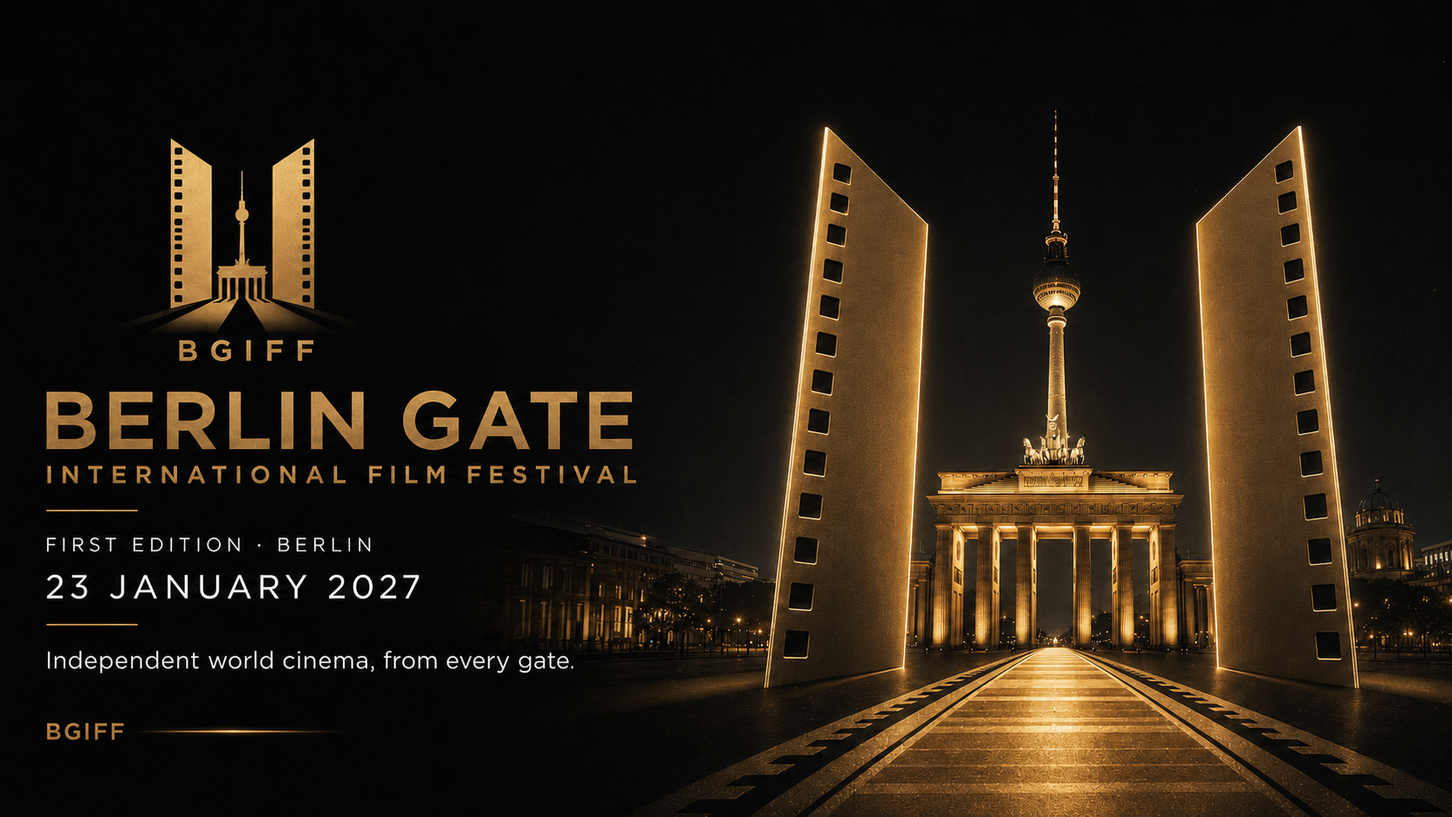
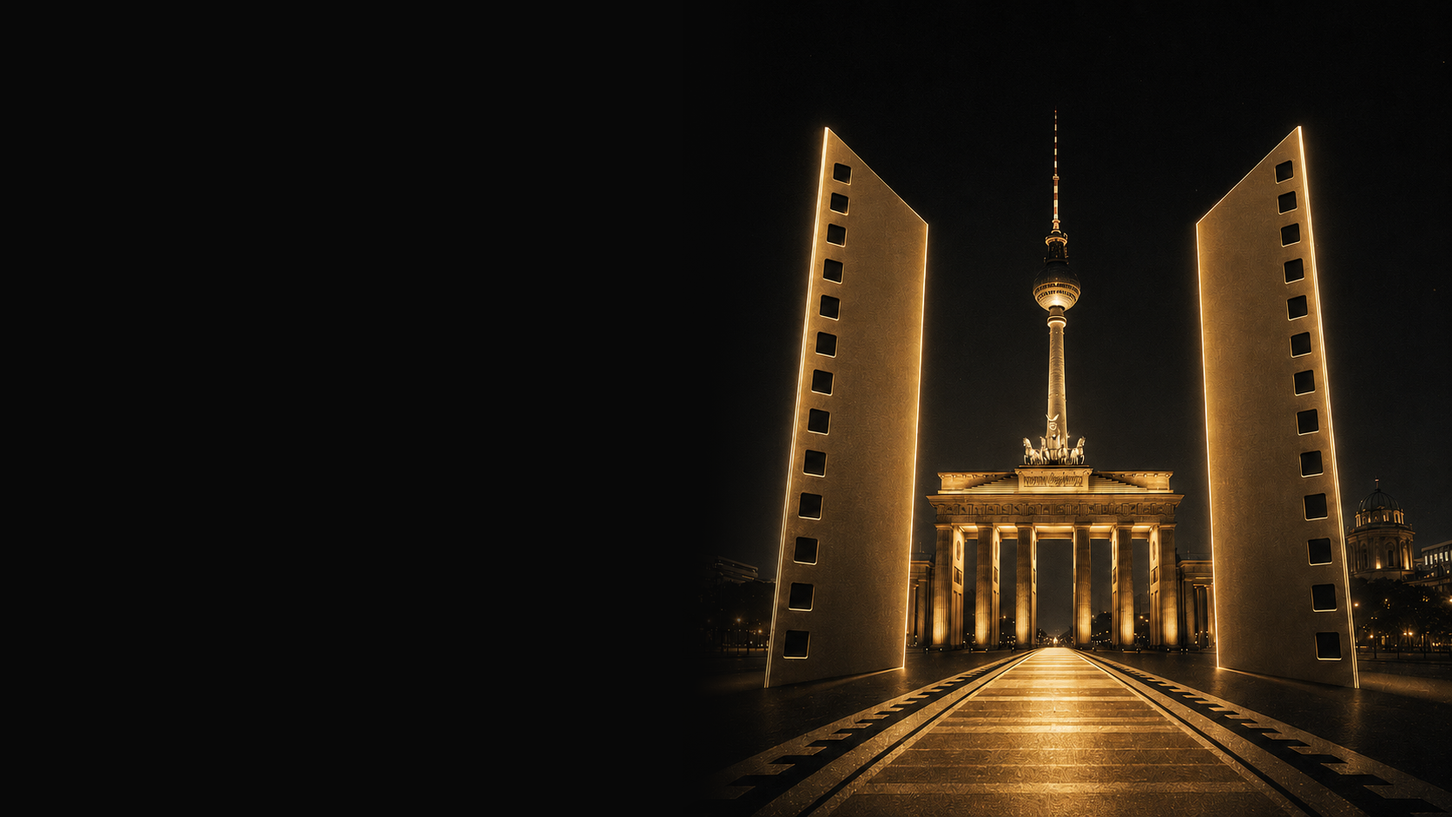
Live site: current dates, clean hero, real contact addresses, Impressum structure
Only the three urgent fixes (founder, 8 Oct): dates, Impressum, contact email.
- Dates: film deadline 1 Nov, scripts & photos 21 Nov, the Reveal 24 Nov, Official Selection 21 Dec, The Gates Open 23 Jan 2027. Removed the passed 5 Oct deadline and every 'Berlin 24 January 2027' (Berlin dates are announced at the Reveal).
- Hero image replaced by the clean version (the old one had '23 January 2027 · Berlin' baked in); the old timeline image (30 Nov deadline, Berlin 23 Jan) is no longer used.
- Contact: hello@ and press@ do not exist, now info@; removed the contact form that sent nothing.
- Impressum: § 5 DDG / § 18 (2) MStV structure, data in lib/data.ts. Values in [brackets] wait for the operator's data; do not publish before they are filled.

Claude-Session: https://claude.ai/code/session_01QrGrghJHUKYvL9S9jM93cw

diff --git a/app/globals.css b/app/globals.css
@@ -1,6 +1,6 @@
 @import url('https://fonts.googleapis.com/css2?family=Cormorant+Garamond:ital,wght@0,500;1,500&family=Montserrat:wght@300;400;500;600;700&display=swap');
 :root{--black:#080808;--charcoal:#151515;--gold:#c99a43;--champagne:#e2be70;--ivory:#f3f0e9;--grey:#a6a6a6;--line:rgba(201,154,67,.24)}
-*{box-sizing:border-box}html{scroll-behavior:smooth}body{margin:0;background:var(--black);color:var(--ivory);font-family:Montserrat,Arial,sans-serif;font-weight:400;line-height:1.65}a{color:inherit;text-decoration:none}img{object-fit:cover}main{overflow:hidden}.site-header{height:82px;position:fixed;inset:0 0 auto;z-index:50;display:flex;align-items:center;justify-content:space-between;padding:0 4vw;border-bottom:1px solid rgba(255,255,255,.08);background:linear-gradient(#080808d9,transparent);backdrop-filter:blur(8px)}.brand{display:flex;align-items:center;gap:12px;font-size:12px;font-weight:600;letter-spacing:.24em}.brand img{border-radius:50%}.site-header nav{display:flex;align-items:center;gap:2.1vw}.site-header nav>a:not(.button){font-size:11px;text-transform:uppercase;letter-spacing:.14em;color:#dedbd4;transition:.2s}.site-header nav>a:not(.button):hover{color:var(--gold)}.menu-toggle{display:none;color:white;background:none;border:0;font-size:25px}.button{display:inline-flex;justify-content:center;align-items:center;min-height:50px;padding:0 26px;background:var(--gold);color:#080808;font-weight:700;text-transform:uppercase;letter-spacing:.12em;font-size:10px;border:1px solid var(--gold);cursor:pointer;transition:.25s}.button:hover{background:var(--champagne);border-color:var(--champagne);transform:translateY(-2px)}.button-small{min-height:42px;padding:0 18px}.button.outline{background:transparent;color:var(--ivory);border-color:var(--gold)}.text-link{text-transform:uppercase;letter-spacing:.15em;font-size:10px;font-weight:600;border-bottom:1px solid var(--gold);padding-bottom:5px}.text-link b{color:var(--gold);margin-left:7px}.hero{position:relative;height:max(760px,100vh);min-height:700px}.hero-image{object-position:center}.hero-shade{position:absolute;inset:0;background:linear-gradient(90deg,rgba(8,8,8,.96) 0%,rgba(8,8,8,.76) 37%,rgba(8,8,8,.1) 68%),linear-gradient(0deg,rgba(8,8,8,.5),transparent 42%)}.hero-content{position:absolute;left:8vw;top:52%;transform:translateY(-46%);max-width:700px}.eyebrow,.page-hero span,.article-page header>span,.film-page>div>span{color:var(--gold);font-size:10px;letter-spacing:.27em;text-transform:uppercase;font-weight:600;margin-bottom:24px}.hero h1{font-size:clamp(54px,6.7vw,112px);line-height:.9;letter-spacing:-.055em;text-transform:uppercase;margin:0 0 28px}.hero h1 span{font-family:"Cormorant Garamond",serif;font-weight:500;font-style:italic;text-transform:none;color:var(--champagne)}.hero-content>p{font-size:17px;color:#ddd;letter-spacing:.04em}.actions{display:flex;align-items:center;gap:18px;margin-top:34px;flex-wrap:wrap}.hero-date{position:absolute;left:calc(100% + 7vw);bottom:-16vh;display:flex;align-items:center;gap:14px;color:var(--gold);white-space:nowrap}.hero-date b{font-size:54px;font-weight:300;line-height:1}.hero-date span{font-size:10px;letter-spacing:.18em;line-height:1.5}.scroll-cue{position:absolute;bottom:32px;left:50%;transform:translateX(-50%);font-size:8px;letter-spacing:.25em;color:#bbb;display:flex;align-items:center;gap:12px}.scroll-cue i{display:block;width:54px;height:1px;background:var(--gold)}.section{padding:130px 7vw;background:var(--ivory);color:var(--black)}.section.dark-section,.timeline-section{background:var(--charcoal);color:var(--ivory)}.section-inner{max-width:1380px;margin:auto}.section h2,.closing h2,.page-hero h1,.article-page h1{font-size:clamp(42px,5.5vw,84px);line-height:1.02;letter-spacing:-.05em;margin:0 0 70px;max-width:1000px}.split{display:grid;grid-template-columns:1.1fr .9fr;gap:11vw;align-items:start}.lead{font-family:"Cormorant Garamond",serif;font-size:clamp(27px,3vw,45px);line-height:1.18;margin:0}.split>div>p{color:#56524c;margin-top:0}.dark-section .split>div>p{color:#bbb}.category-grid{display:grid;grid-template-columns:repeat(4,1fr);border-top:1px solid var(--line);border-left:1px solid var(--line)}.category{min-height:245px;padding:30px;border-right:1px solid var(--line);border-bottom:1px solid var(--line);position:relative;transition:.3s}.category:hover{background:var(--gold);color:var(--black)}.category>span,.path-item span,.values span,.programme-grid span,.recognition span,.award-list span{color:var(--gold);font-size:9px;letter-spacing:.2em}.category:hover>span{color:#222}.category h3{font-size:22px;margin:45px 0 10px}.category p{color:#9c9a95;font-size:12px;margin:0}.category:hover p{color:#332b1d}.category>b{position:absolute;right:26px;top:25px}.path-list{border-top:1px solid #bbb}.path-item{padding:19px 5px;border-bottom:1px solid #ccc;text-transform:uppercase;letter-spacing:.08em;font-size:14px}.path-item span{display:inline-block;width:65px}.timeline{display:grid;grid-template-columns:repeat(5,1fr);margin:70px 0}.milestone{position:relative;border-top:1px solid var(--line);padding:28px 20px 0}.milestone i{position:absolute;top:-5px;left:20px;width:9px;height:9px;background:var(--gold);border-radius:50%}.milestone>span{color:#555;font-size:9px}.milestone h3{font-size:13px;text-transform:uppercase;letter-spacing:.08em;margin:20px 0 8px}.milestone p{color:var(--gold);font-size:11px}.wide-image{position:relative;aspect-ratio:16/7;margin-top:60px;overflow:hidden}.prize-section{background:#0c0c0c;color:var(--ivory)}.prize-grid{display:grid;grid-template-columns:.78fr 1fr;gap:9vw;align-items:center}.trophy{position:relative;min-height:700px}.trophy img{object-position:center}.prize-copy ul{list-style:none;padding:0;margin:45px 0}.prize-copy li{border-top:1px solid var(--line);padding:14px 0;text-transform:uppercase;letter-spacing:.09em;font-size:11px}.event-facts{display:grid;grid-template-columns:repeat(3,1fr);border-top:1px solid var(--line);max-width:850px;margin-bottom:55px}.event-facts>div{padding:30px 0;border-right:1px solid var(--line);display:flex;gap:18px}.event-facts b{color:var(--gold);font-size:10px}.event-facts span{text-transform:uppercase;letter-spacing:.08em;font-size:13px}.article-grid{display:grid;grid-template-columns:repeat(3,1fr);gap:28px;margin-bottom:60px}.article-image{height:300px;position:relative;overflow:hidden;margin-bottom:23px}.article-card:hover .article-image img{transform:scale(1.03)}.article-image img{transition:.5s}.article-card>span{font-size:8px;color:var(--gold);text-transform:uppercase;letter-spacing:.16em}.article-card h3{font-size:22px;line-height:1.25;margin:13px 0}.article-card p{color:#96928b;font-size:12px}.closing{text-align:center;padding:150px 20px;background:radial-gradient(circle at 50% 60%,#3b2a11 0,transparent 35%),#080808}.closing-mark{color:var(--gold);letter-spacing:.7em;font-size:12px;margin-bottom:35px}.closing h2{margin:0 auto 25px;text-transform:uppercase}.closing p{color:#aaa;margin-bottom:35px}.closing .actions{justify-content:center}footer{display:grid;grid-template-columns:2fr repeat(4,1fr);gap:35px;padding:80px 7vw 30px;border-top:1px solid #292929;background:#080808;color:#aaa;font-size:11px}footer h4{color:var(--gold);text-transform:uppercase;letter-spacing:.16em;font-size:9px;margin-bottom:18px}footer a{display:block;margin:8px 0}.footer-brand .mark{font-size:26px;color:var(--gold);letter-spacing:.2em}.footer-festhome img{width:132px;height:auto;object-fit:contain;margin-top:10px}.footer-bottom{grid-column:1/-1;border-top:1px solid #222;padding-top:24px;margin-top:30px;font-size:9px}.page-hero{height:72vh;min-height:600px;display:flex;align-items:flex-end;padding:0 7vw 9vh;position:relative;background:linear-gradient(90deg,#080808 10%,transparent),url('/images/hero-web.png') center/cover}.page-hero:after{content:"";position:absolute;inset:0;background:linear-gradient(0deg,#080808 0,transparent 70%)}.page-hero>div{position:relative;z-index:1;max-width:1050px}.page-hero h1{margin-bottom:0}.page-hero p{max-width:620px;color:#ccc}.submit-hero{background-image:linear-gradient(90deg,#080808 5%,transparent),url('/images/timeline.png')}.awards-hero{background-image:linear-gradient(90deg,#080808 5%,transparent),url('/images/laurels.png')}.journal-hero{background-image:linear-gradient(90deg,#080808 5%,transparent),url('/images/hero-web.png')}.feature-image{height:76vh;position:relative}.values{display:grid;grid-template-columns:repeat(3,1fr);border-left:1px solid var(--line);border-top:1px solid var(--line)}.values>div{min-height:160px;border-right:1px solid var(--line);border-bottom:1px solid var(--line);padding:30px}.values h3{margin-top:30px}.narrow{max-width:800px;margin-bottom:45px}.date-list{border-top:1px solid var(--line)}.date-list>div{display:flex;justify-content:space-between;align-items:center;padding:20px 0;border-bottom:1px solid var(--line)}.date-list h3{font-size:14px;text-transform:uppercase;letter-spacing:.08em}.date-list b{font-weight:400;color:var(--gold);letter-spacing:.1em}.submission-actions{display:flex;gap:14px;flex-wrap:wrap;margin-top:30px}.platform-grid{display:grid;grid-template-columns:1fr 1fr;gap:1px;background:#d0cdc5}.platform-grid>div{background:var(--ivory);padding:38px;min-height:250px}.platform-grid h3{font-size:26px;margin-top:0}.platform-grid p{color:#666;max-width:520px;margin-bottom:28px}.festhome-badge{display:inline-block}.festhome-badge img{display:block;width:190px;height:auto;object-fit:contain}.steps{display:grid;grid-template-columns:repeat(5,1fr);gap:1px;background:#d0cdc5}.steps>div{background:var(--ivory);padding:30px;min-height:170px}.steps b{color:var(--gold)}.faq details{border-top:1px solid #c9c5bc;padding:20px 0}.faq summary{font-size:17px;font-weight:600;cursor:pointer}.faq details p{color:#666;max-width:700px}.legal-note{font-size:11px;color:#888;margin-top:45px}.recognition{display:grid;grid-template-columns:repeat(3,1fr);gap:25px}.recognition>div{border:1px solid var(--line);padding:35px;min-height:220px}.recognition h3{margin-top:35px}.laurels{aspect-ratio:16/8}.award-list{display:grid;grid-template-columns:1fr 1fr;border-top:1px solid #ccc}.award-list>div{padding:17px;border-bottom:1px solid #ccc;text-transform:uppercase;font-size:12px}.award-list span{display:inline-block;width:48px}.programme-grid{display:grid;grid-template-columns:repeat(3,1fr);gap:1px;background:#ccc}.programme-grid>div{background:var(--ivory);padding:35px;min-height:230px}.programme-grid h3{margin-top:45px}.contact-grid{display:grid;grid-template-columns:1fr 1fr;gap:1px;background:#ccc}.contact-grid>div{background:var(--ivory);padding:30px}.contact-grid a{color:#75551f}.contact-form{margin-top:80px;display:grid;grid-template-columns:1fr 1fr;gap:25px}.contact-form label{font-size:10px;text-transform:uppercase;letter-spacing:.12em}.contact-form input,.contact-form textarea,.contact-form select{display:block;width:100%;border:0;border-bottom:1px solid #aaa;background:transparent;padding:14px 0;font:inherit;margin-top:5px}.contact-form label:nth-child(4){grid-column:1/-1}.contact-form p{font-size:10px;color:#777}.article-page{padding-top:170px}.article-page header,.article-body{max-width:900px;margin:0 auto;padding:0 30px}.article-page header p{font-size:18px;color:#aaa}.article-cover{height:65vh;position:relative;margin:70px 0}.article-body{padding-bottom:120px}.article-body p:not(.lead){color:#aaa}.film-page{min-height:100vh;padding:150px 7vw 100px;display:grid;grid-template-columns:1fr 1fr;gap:8vw;align-items:center}.film-poster{position:relative;min-height:650px}.film-page h1{font-size:60px;line-height:1}.film-page dl{display:grid;grid-template-columns:120px 1fr;border-top:1px solid var(--line)}.film-page dt,.film-page dd{margin:0;padding:12px;border-bottom:1px solid var(--line)}.film-page dt{color:var(--gold);font-size:10px;text-transform:uppercase}.legal-page{max-width:850px;min-height:80vh;padding:170px 30px 100px;margin:auto}.legal-page h1{font-size:60px}.legal-page h2{margin-top:50px}.legal-page p{color:#bbb}
+*{box-sizing:border-box}html{scroll-behavior:smooth}body{margin:0;background:var(--black);color:var(--ivory);font-family:Montserrat,Arial,sans-serif;font-weight:400;line-height:1.65}a{color:inherit;text-decoration:none}img{object-fit:cover}main{overflow:hidden}.site-header{height:82px;position:fixed;inset:0 0 auto;z-index:50;display:flex;align-items:center;justify-content:space-between;padding:0 4vw;border-bottom:1px solid rgba(255,255,255,.08);background:linear-gradient(#080808d9,transparent);backdrop-filter:blur(8px)}.brand{display:flex;align-items:center;gap:12px;font-size:12px;font-weight:600;letter-spacing:.24em}.brand img{border-radius:50%}.site-header nav{display:flex;align-items:center;gap:2.1vw}.site-header nav>a:not(.button){font-size:11px;text-transform:uppercase;letter-spacing:.14em;color:#dedbd4;transition:.2s}.site-header nav>a:not(.button):hover{color:var(--gold)}.menu-toggle{display:none;color:white;background:none;border:0;font-size:25px}.button{display:inline-flex;justify-content:center;align-items:center;min-height:50px;padding:0 26px;background:var(--gold);color:#080808;font-weight:700;text-transform:uppercase;letter-spacing:.12em;font-size:10px;border:1px solid var(--gold);cursor:pointer;transition:.25s}.button:hover{background:var(--champagne);border-color:var(--champagne);transform:translateY(-2px)}.button-small{min-height:42px;padding:0 18px}.button.outline{background:transparent;color:var(--ivory);border-color:var(--gold)}.text-link{text-transform:uppercase;letter-spacing:.15em;font-size:10px;font-weight:600;border-bottom:1px solid var(--gold);padding-bottom:5px}.text-link b{color:var(--gold);margin-left:7px}.hero{position:relative;height:max(760px,100vh);min-height:700px}.hero-image{object-position:center}.hero-shade{position:absolute;inset:0;background:linear-gradient(90deg,rgba(8,8,8,.96) 0%,rgba(8,8,8,.76) 37%,rgba(8,8,8,.1) 68%),linear-gradient(0deg,rgba(8,8,8,.5),transparent 42%)}.hero-content{position:absolute;left:8vw;top:52%;transform:translateY(-46%);max-width:700px}.eyebrow,.page-hero span,.article-page header>span,.film-page>div>span{color:var(--gold);font-size:10px;letter-spacing:.27em;text-transform:uppercase;font-weight:600;margin-bottom:24px}.hero h1{font-size:clamp(54px,6.7vw,112px);line-height:.9;letter-spacing:-.055em;text-transform:uppercase;margin:0 0 28px}.hero h1 span{font-family:"Cormorant Garamond",serif;font-weight:500;font-style:italic;text-transform:none;color:var(--champagne)}.hero-content>p{font-size:17px;color:#ddd;letter-spacing:.04em}.actions{display:flex;align-items:center;gap:18px;margin-top:34px;flex-wrap:wrap}.hero-date{position:absolute;left:calc(100% + 7vw);bottom:-16vh;display:flex;align-items:center;gap:14px;color:var(--gold);white-space:nowrap}.hero-date b{font-size:54px;font-weight:300;line-height:1}.hero-date span{font-size:10px;letter-spacing:.18em;line-height:1.5}.scroll-cue{position:absolute;bottom:32px;left:50%;transform:translateX(-50%);font-size:8px;letter-spacing:.25em;color:#bbb;display:flex;align-items:center;gap:12px}.scroll-cue i{display:block;width:54px;height:1px;background:var(--gold)}.section{padding:130px 7vw;background:var(--ivory);color:var(--black)}.section.dark-section,.timeline-section{background:var(--charcoal);color:var(--ivory)}.section-inner{max-width:1380px;margin:auto}.section h2,.closing h2,.page-hero h1,.article-page h1{font-size:clamp(42px,5.5vw,84px);line-height:1.02;letter-spacing:-.05em;margin:0 0 70px;max-width:1000px}.split{display:grid;grid-template-columns:1.1fr .9fr;gap:11vw;align-items:start}.lead{font-family:"Cormorant Garamond",serif;font-size:clamp(27px,3vw,45px);line-height:1.18;margin:0}.split>div>p{color:#56524c;margin-top:0}.dark-section .split>div>p{color:#bbb}.category-grid{display:grid;grid-template-columns:repeat(4,1fr);border-top:1px solid var(--line);border-left:1px solid var(--line)}.category{min-height:245px;padding:30px;border-right:1px solid var(--line);border-bottom:1px solid var(--line);position:relative;transition:.3s}.category:hover{background:var(--gold);color:var(--black)}.category>span,.path-item span,.values span,.programme-grid span,.recognition span,.award-list span{color:var(--gold);font-size:9px;letter-spacing:.2em}.category:hover>span{color:#222}.category h3{font-size:22px;margin:45px 0 10px}.category p{color:#9c9a95;font-size:12px;margin:0}.category:hover p{color:#332b1d}.category>b{position:absolute;right:26px;top:25px}.path-list{border-top:1px solid #bbb}.path-item{padding:19px 5px;border-bottom:1px solid #ccc;text-transform:uppercase;letter-spacing:.08em;font-size:14px}.path-item span{display:inline-block;width:65px}.timeline{display:grid;grid-template-columns:repeat(5,1fr);margin:70px 0}.milestone{position:relative;border-top:1px solid var(--line);padding:28px 20px 0}.milestone i{position:absolute;top:-5px;left:20px;width:9px;height:9px;background:var(--gold);border-radius:50%}.milestone>span{color:#555;font-size:9px}.milestone h3{font-size:13px;text-transform:uppercase;letter-spacing:.08em;margin:20px 0 8px}.milestone p{color:var(--gold);font-size:11px}.wide-image{position:relative;aspect-ratio:16/7;margin-top:60px;overflow:hidden}.prize-section{background:#0c0c0c;color:var(--ivory)}.prize-grid{display:grid;grid-template-columns:.78fr 1fr;gap:9vw;align-items:center}.trophy{position:relative;min-height:700px}.trophy img{object-position:center}.prize-copy ul{list-style:none;padding:0;margin:45px 0}.prize-copy li{border-top:1px solid var(--line);padding:14px 0;text-transform:uppercase;letter-spacing:.09em;font-size:11px}.event-facts{display:grid;grid-template-columns:repeat(3,1fr);border-top:1px solid var(--line);max-width:850px;margin-bottom:55px}.event-facts>div{padding:30px 0;border-right:1px solid var(--line);display:flex;gap:18px}.event-facts b{color:var(--gold);font-size:10px}.event-facts span{text-transform:uppercase;letter-spacing:.08em;font-size:13px}.article-grid{display:grid;grid-template-columns:repeat(3,1fr);gap:28px;margin-bottom:60px}.article-image{height:300px;position:relative;overflow:hidden;margin-bottom:23px}.article-card:hover .article-image img{transform:scale(1.03)}.article-image img{transition:.5s}.article-card>span{font-size:8px;color:var(--gold);text-transform:uppercase;letter-spacing:.16em}.article-card h3{font-size:22px;line-height:1.25;margin:13px 0}.article-card p{color:#96928b;font-size:12px}.closing{text-align:center;padding:150px 20px;background:radial-gradient(circle at 50% 60%,#3b2a11 0,transparent 35%),#080808}.closing-mark{color:var(--gold);letter-spacing:.7em;font-size:12px;margin-bottom:35px}.closing h2{margin:0 auto 25px;text-transform:uppercase}.closing p{color:#aaa;margin-bottom:35px}.closing .actions{justify-content:center}footer{display:grid;grid-template-columns:2fr repeat(4,1fr);gap:35px;padding:80px 7vw 30px;border-top:1px solid #292929;background:#080808;color:#aaa;font-size:11px}footer h4{color:var(--gold);text-transform:uppercase;letter-spacing:.16em;font-size:9px;margin-bottom:18px}footer a{display:block;margin:8px 0}.footer-brand .mark{font-size:26px;color:var(--gold);letter-spacing:.2em}.footer-festhome img{width:132px;height:auto;object-fit:contain;margin-top:10px}.footer-bottom{grid-column:1/-1;border-top:1px solid #222;padding-top:24px;margin-top:30px;font-size:9px}.page-hero{height:72vh;min-height:600px;display:flex;align-items:flex-end;padding:0 7vw 9vh;position:relative;background:linear-gradient(90deg,#080808 10%,transparent),url('/images/hero-web.png') center/cover}.page-hero:after{content:"";position:absolute;inset:0;background:linear-gradient(0deg,#080808 0,transparent 70%)}.page-hero>div{position:relative;z-index:1;max-width:1050px}.page-hero h1{margin-bottom:0}.page-hero p{max-width:620px;color:#ccc}.submit-hero{background-image:linear-gradient(90deg,#080808 5%,transparent),url('/images/hero-web.png')}.awards-hero{background-image:linear-gradient(90deg,#080808 5%,transparent),url('/images/laurels.png')}.journal-hero{background-image:linear-gradient(90deg,#080808 5%,transparent),url('/images/hero-web.png')}.feature-image{height:76vh;position:relative}.values{display:grid;grid-template-columns:repeat(3,1fr);border-left:1px solid var(--line);border-top:1px solid var(--line)}.values>div{min-height:160px;border-right:1px solid var(--line);border-bottom:1px solid var(--line);padding:30px}.values h3{margin-top:30px}.narrow{max-width:800px;margin-bottom:45px}.date-list{border-top:1px solid var(--line)}.date-list>div{display:flex;justify-content:space-between;align-items:center;padding:20px 0;border-bottom:1px solid var(--line)}.date-list h3{font-size:14px;text-transform:uppercase;letter-spacing:.08em}.date-list b{font-weight:400;color:var(--gold);letter-spacing:.1em}.submission-actions{display:flex;gap:14px;flex-wrap:wrap;margin-top:30px}.platform-grid{display:grid;grid-template-columns:1fr 1fr;gap:1px;background:#d0cdc5}.platform-grid>div{background:var(--ivory);padding:38px;min-height:250px}.platform-grid h3{font-size:26px;margin-top:0}.platform-grid p{color:#666;max-width:520px;margin-bottom:28px}.festhome-badge{display:inline-block}.festhome-badge img{display:block;width:190px;height:auto;object-fit:contain}.steps{display:grid;grid-template-columns:repeat(5,1fr);gap:1px;background:#d0cdc5}.steps>div{background:var(--ivory);padding:30px;min-height:170px}.steps b{color:var(--gold)}.faq details{border-top:1px solid #c9c5bc;padding:20px 0}.faq summary{font-size:17px;font-weight:600;cursor:pointer}.faq details p{color:#666;max-width:700px}.legal-note{font-size:11px;color:#888;margin-top:45px}.recognition{display:grid;grid-template-columns:repeat(3,1fr);gap:25px}.recognition>div{border:1px solid var(--line);padding:35px;min-height:220px}.recognition h3{margin-top:35px}.laurels{aspect-ratio:16/8}.award-list{display:grid;grid-template-columns:1fr 1fr;border-top:1px solid #ccc}.award-list>div{padding:17px;border-bottom:1px solid #ccc;text-transform:uppercase;font-size:12px}.award-list span{display:inline-block;width:48px}.programme-grid{display:grid;grid-template-columns:repeat(3,1fr);gap:1px;background:#ccc}.programme-grid>div{background:var(--ivory);padding:35px;min-height:230px}.programme-grid h3{margin-top:45px}.contact-grid{display:grid;grid-template-columns:1fr 1fr;gap:1px;background:#ccc}.contact-grid>div{background:var(--ivory);padding:30px}.contact-grid a{color:#75551f}.contact-form{margin-top:80px;display:grid;grid-template-columns:1fr 1fr;gap:25px}.contact-form label{font-size:10px;text-transform:uppercase;letter-spacing:.12em}.contact-form input,.contact-form textarea,.contact-form select{display:block;width:100%;border:0;border-bottom:1px solid #aaa;background:transparent;padding:14px 0;font:inherit;margin-top:5px}.contact-form label:nth-child(4){grid-column:1/-1}.contact-form p{font-size:10px;color:#777}.article-page{padding-top:170px}.article-page header,.article-body{max-width:900px;margin:0 auto;padding:0 30px}.article-page header p{font-size:18px;color:#aaa}.article-cover{height:65vh;position:relative;margin:70px 0}.article-body{padding-bottom:120px}.article-body p:not(.lead){color:#aaa}.film-page{min-height:100vh;padding:150px 7vw 100px;display:grid;grid-template-columns:1fr 1fr;gap:8vw;align-items:center}.film-poster{position:relative;min-height:650px}.film-page h1{font-size:60px;line-height:1}.film-page dl{display:grid;grid-template-columns:120px 1fr;border-top:1px solid var(--line)}.film-page dt,.film-page dd{margin:0;padding:12px;border-bottom:1px solid var(--line)}.film-page dt{color:var(--gold);font-size:10px;text-transform:uppercase}.legal-page{max-width:850px;min-height:80vh;padding:170px 30px 100px;margin:auto}.legal-page h1{font-size:60px}.legal-page h2{margin-top:50px}.legal-page p{color:#bbb}
 @media(max-width:900px){.site-header{height:70px;padding:0 18px}.brand span{display:none}.menu-toggle{display:block}.site-header nav{display:none;position:absolute;top:70px;left:0;right:0;background:#080808;padding:28px;flex-direction:column;align-items:stretch}.site-header nav.open{display:flex}.site-header nav a{padding:9px}.hero{height:820px}.hero-shade{background:linear-gradient(0deg,#080808 0%,rgba(8,8,8,.2) 70%),linear-gradient(90deg,rgba(8,8,8,.85),transparent)}.hero-image{object-position:65% center}.hero-content{left:24px;right:24px;top:43%;transform:none}.hero h1{font-size:54px}.hero-date{position:static;margin-top:60px}.scroll-cue{display:none}.section{padding:90px 22px}.section h2{margin-bottom:45px}.split,.prize-grid,.film-page{grid-template-columns:1fr;gap:50px}.category-grid{grid-template-columns:1fr 1fr}.category{min-height:210px;padding:22px}.category h3{font-size:17px}.timeline{grid-template-columns:1fr;margin:40px 0}.milestone{border-top:0;border-left:1px solid var(--line);padding:0 0 30px 25px}.milestone i{top:5px;left:-5px}.wide-image{aspect-ratio:1/1}.trophy{min-height:600px}.event-facts,.article-grid,.values,.steps,.programme-grid,.recognition,.platform-grid{grid-template-columns:1fr}.article-image{height:240px}.closing{padding:100px 20px}footer{grid-template-columns:1fr 1fr}.footer-brand,.footer-bottom{grid-column:1/-1}.page-hero{height:75vh;padding:0 22px 60px}.page-hero h1{font-size:48px}.feature-image{height:50vh}.contact-form{grid-template-columns:1fr}.contact-form label:nth-child(4){grid-column:auto}.award-list{grid-template-columns:1fr}.film-page{padding:120px 22px 80px}.film-poster{min-height:500px}.article-cover{height:45vh}}
 @media(max-width:520px){.category-grid{grid-template-columns:1fr}.actions{align-items:flex-start;flex-direction:column}.hero h1{font-size:46px}.hero-content>p{font-size:14px}.section h2,.closing h2{font-size:42px}.event-facts{grid-template-columns:1fr}.contact-grid{grid-template-columns:1fr}.trophy{min-height:500px}}
 @media(prefers-reduced-motion:reduce){*{scroll-behavior:auto!important;transition:none!important}}

diff --git a/app/page.tsx b/app/page.tsx
@@ -4,7 +4,7 @@ import Section from "@/components/Section";
 import {articles,categories,dates,festhomeUrl,submitUrl} from "@/lib/data";
 
 export default function Home(){return <>
- <section className="hero"><Image src="/images/hero-web.png" alt="Berlin Gate International Film Festival" fill priority sizes="100vw" className="hero-image"/><div className="hero-shade"/><div className="hero-content"><div className="eyebrow">First Edition · Berlin</div><h1>Where cinema<br/><span>crosses borders.</span></h1><p>Independent world cinema, from every gate.</p><div className="actions"><a href={submitUrl} target="_blank" rel="noopener noreferrer" className="button">Submit on FilmFreeway</a><a href={festhomeUrl} target="_blank" rel="noopener noreferrer" className="button outline">Submit free on Festhome</a><Link href="/festival" className="text-link">Discover the festival <b>↗</b></Link></div><div className="hero-date"><b>24</b><span>JANUARY<br/>2027</span></div></div><div className="scroll-cue">SCROLL TO ENTER <i/></div></section>
+ <section className="hero"><Image src="/images/hero-web.png" alt="Berlin Gate International Film Festival" fill priority sizes="100vw" className="hero-image"/><div className="hero-shade"/><div className="hero-content"><div className="eyebrow">First Edition · Berlin</div><h1>Where cinema<br/><span>crosses borders.</span></h1><p>Independent world cinema, from every gate.</p><div className="actions"><a href={submitUrl} target="_blank" rel="noopener noreferrer" className="button">Submit on FilmFreeway</a><a href={festhomeUrl} target="_blank" rel="noopener noreferrer" className="button outline">Submit free on Festhome</a><Link href="/festival" className="text-link">Discover the festival <b>↗</b></Link></div><div className="hero-date"><b>23</b><span>JANUARY 2027<br/>THE GATES OPEN</span></div></div><div className="scroll-cue">SCROLL TO ENTER <i/></div></section>
 
  <Section eyebrow="Berlin Gate · International Film Festival" title="A new kind of film festival." className="intro"><div className="split"><p className="lead">Berlin Gate isn’t built like other festivals — and that’s the point. Born in Berlin, a city that has always crossed borders, BGIFF opens a new path for independent cinema: a festival designed not only to judge films, but to get them seen and supported.</p><div><p>We believe every project has a spark of brilliance in it somewhere. That’s why every eligible film here gets a real chance to be seen — and why, from the first click to the final night in Berlin, every step of the journey stays clear.</p><Link href="/festival" className="text-link">Our story <b>↗</b></Link></div></div></Section>
 
@@ -16,7 +16,7 @@ export default function Home(){return <>
 
  <Section eyebrow="Highest Honour" title="The Berlin Gate Grand Prize." className="prize-section"><div className="prize-grid"><div className="trophy"><Image src="/images/trophy.png" alt="Berlin Gate Grand Prize trophy" fill sizes="(max-width: 800px) 100vw, 45vw"/></div><div className="prize-copy"><p className="lead">The festival’s highest distinction, honouring one outstanding work that brings originality, craft, creative courage and lasting impact together.</p><ul><li>Exclusive Berlin Gate trophy</li><li>Official Grand Prize title and laurel</li><li>Festival certificate</li><li>Special editorial feature</li></ul><Link href="/awards" className="button outline">Discover the awards</Link></div></div></Section>
 
- <Section eyebrow="24 January 2027" title="It all comes together in Berlin." className="berlin"><div className="event-facts"><div><b>01</b><span>Selected<br/>screenings</span></div><div><b>02</b><span>Talks &<br/>encounters</span></div><div><b>03</b><span>Winner<br/>announcements</span></div></div><p>The full screening and event programme will be announced after the Official Selection.</p><Link href="/programme" className="text-link">Explore the programme <b>↗</b></Link></Section>
+ <Section eyebrow="Berlin · 2027" title="It all comes together in Berlin." className="berlin"><div className="event-facts"><div><b>01</b><span>Selected<br/>screenings</span></div><div><b>02</b><span>Talks &<br/>encounters</span></div><div><b>03</b><span>Winner<br/>announcements</span></div></div><p>The full screening and event programme will be announced after the Official Selection.</p><Link href="/programme" className="text-link">Explore the programme <b>↗</b></Link></Section>
 
  <Section eyebrow="Editorial" title="From the BGIFF Journal." className="dark-section"><div className="article-grid">{articles.map(a=><Link href={`/journal/${a.slug}`} key={a.slug} className="article-card"><div className="article-image"><Image src={a.image} alt="" fill sizes="(max-width:800px) 100vw, 33vw"/></div><span>{a.type} · {a.date}</span><h3>{a.title}</h3><p>{a.excerpt}</p></Link>)}</div><Link href="/journal" className="button outline">Visit the journal</Link></Section>
 

diff --git a/app/festival/page.tsx b/app/festival/page.tsx
@@ -1,3 +1,3 @@
 import Image from "next/image";import Section from "@/components/Section";import Link from "next/link";
 export const metadata={title:"Festival"};
-export default function Festival(){return <><div className="page-hero"><div><span>Festival / About</span><h1>A gateway between cultures, perspectives and ways of telling a story.</h1></div></div><Section eyebrow="Our Story" title="Born in Berlin. Open to the world."><div className="split"><p className="lead">Berlin is a city where history, art, resistance, experimentation and cultures from around the world meet.</p><div><p>The name Berlin Gate grows from that spirit. We welcome filmmakers and visual storytellers who create with courage, honesty and a personal vision.</p><p>Our purpose is not simply to hand out a title or laurel. Berlin Gate is a new kind of festival — one that stays open and clear from the first click to the final night, and that is built to get independent work seen and supported, not only judged. Our first edition introduces a completely new festival journey; the details are revealed to our entrants first.</p></div></div></Section><div className="feature-image"><Image src="/images/hero-web.png" alt="BGIFF in Berlin" fill/></div><Section eyebrow="Vision & Values" title="What we stand for."><div className="values">{[["01","Artistic independence"],["02","Creative courage"],["03","Cultural exchange"],["04","Emerging voices"],["05","New forms of storytelling"],["06","Human connection"]].map(([n,x])=><div key={x}><span>{n}</span><h3>{x}</h3></div>)}</div></Section><Section eyebrow="First Edition" title="Berlin · 24 January 2027" className="dark-section"><p className="lead narrow">Submissions and judging take place internationally. The first edition culminates in a live event in Berlin with selected screenings, recognition and the announcement of winners.</p><Link href="/programme" className="button outline">First edition programme</Link></Section></>}
+export default function Festival(){return <><div className="page-hero"><div><span>Festival / About</span><h1>A gateway between cultures, perspectives and ways of telling a story.</h1></div></div><Section eyebrow="Our Story" title="Born in Berlin. Open to the world."><div className="split"><p className="lead">Berlin is a city where history, art, resistance, experimentation and cultures from around the world meet.</p><div><p>The name Berlin Gate grows from that spirit. We welcome filmmakers and visual storytellers who create with courage, honesty and a personal vision.</p><p>Our purpose is not simply to hand out a title or laurel. Berlin Gate is a new kind of festival — one that stays open and clear from the first click to the final night, and that is built to get independent work seen and supported, not only judged. Our first edition introduces a completely new festival journey; the details are revealed to our entrants first.</p></div></div></Section><div className="feature-image"><Image src="/images/hero-web.png" alt="BGIFF in Berlin" fill/></div><Section eyebrow="Vision & Values" title="What we stand for."><div className="values">{[["01","Artistic independence"],["02","Creative courage"],["03","Cultural exchange"],["04","Emerging voices"],["05","New forms of storytelling"],["06","Human connection"]].map(([n,x])=><div key={x}><span>{n}</span><h3>{x}</h3></div>)}</div></Section><Section eyebrow="First Edition" title="Berlin · 2027" className="dark-section"><p className="lead narrow">Submissions and judging take place internationally. The first edition culminates in a live event in Berlin with selected screenings, recognition and the announcement of winners.</p><Link href="/programme" className="button outline">First edition programme</Link></Section></>}

diff --git a/lib/data.ts b/lib/data.ts
@@ -18,19 +18,28 @@ export const categories = [
 ] as const;
 
 export const dates = [
-  ["5 OCT 2026", "Regular Deadline"],
-  ["1 NOV 2026", "Late Deadline"],
-  ["21 NOV 2026", "Extended · Scripts & Photos"],
+  ["1 NOV 2026", "Film Deadline"],
+  ["21 NOV 2026", "Scripts & Photos Deadline"],
+  ["24 NOV 2026", "The Reveal"],
   ["21 DEC 2026", "Official Selection"],
-  ["24 JAN 2027", "Berlin Event"],
+  ["23 JAN 2027", "The Gates Open"],
 ] as const;
 
 export const articles = [
   { slug: "introducing-berlin-gate", type: "Festival News", date: "12 July 2026", title: "Introducing Berlin Gate", excerpt: "A new international festival for independent voices, born in Berlin.", image: "/images/hero-web.png" },
-  { slug: "first-edition", type: "Festival Journal", date: "12 July 2026", title: "The First Edition: From Submission to Berlin", excerpt: "The path, the dates and the thinking behind BGIFF's first edition.", image: "/images/timeline.png" },
+  { slug: "first-edition", type: "Festival Journal", date: "12 July 2026", title: "The First Edition: From Submission to Berlin", excerpt: "The path, the dates and the thinking behind BGIFF's first edition.", image: "/images/hero-web.png" },
   { slug: "cinema-new-forms", type: "Perspectives", date: "12 July 2026", title: "Cinema, New Forms and Human Vision", excerpt: "Why emerging tools matter only when they serve an authentic creative voice.", image: "/images/laurels.png" },
 ] as const;
 
 export const sampleFilms = [
   { slug: "programme-coming-soon", title: "Official Selection Coming Soon", director: "Announced 21 December 2026", country: "International", duration: "First Edition", image: "/images/hero-web.png", category: "Programme" },
 ] as const;
+
+// Imprint (§ 5 DDG, § 18 (2) MStV). Values in [brackets] wait for the operator's data — do not publish with brackets.
+export const imprint = {
+  name: "[Full legal name]",
+  address: ["[Street and number]", "[Postcode] Berlin", "Germany"],
+  email: "info@bgiff.com",
+  phone: "[+49 …]",
+  vatId: "[DE…]",
+} as const;

diff --git a/app/contact/page.tsx b/app/contact/page.tsx
@@ -1,3 +1,3 @@
 import Section from "@/components/Section";
 export const metadata={title:"Contact"};
-export default function Contact(){return <><div className="page-hero contact-hero"><div><span>Contact</span><h1>Let’s meet at the gate.</h1></div></div><Section eyebrow="BGIFF · Berlin" title="How can we help?"><div className="contact-grid"><div><h3>General enquiries</h3><a href="mailto:hello@bgiff.com">hello@bgiff.com</a></div><div><h3>Submissions</h3><a href="mailto:submissions@bgiff.com">submissions@bgiff.com</a></div><div><h3>Press & media</h3><a href="mailto:press@bgiff.com">press@bgiff.com</a></div><div><h3>Partnerships</h3><a href="mailto:partners@bgiff.com">partners@bgiff.com</a></div></div><form className="contact-form"><label>Name<input name="name" placeholder="Your name"/></label><label>Email<input type="email" name="email" placeholder="you@example.com"/></label><label>Subject<select name="subject"><option>General enquiry</option><option>Submission</option><option>Press & media</option><option>Partnership</option></select></label><label>Message<textarea name="message" rows={6} placeholder="Tell us how we can help."/></label><button className="button" type="button">Send message</button><p>This preview form requires an email service connection before launch.</p></form></Section></>}
+export default function Contact(){return <><div className="page-hero contact-hero"><div><span>Contact</span><h1>Let’s meet at the gate.</h1></div></div><Section eyebrow="BGIFF · Berlin" title="How can we help?"><div className="contact-grid"><div><h3>General enquiries</h3><a href="mailto:info@bgiff.com">info@bgiff.com</a></div><div><h3>Submissions</h3><a href="mailto:submissions@bgiff.com">submissions@bgiff.com</a></div><div><h3>Press & media</h3><a href="mailto:info@bgiff.com">info@bgiff.com</a></div><div><h3>Partnerships</h3><a href="mailto:partners@bgiff.com">partners@bgiff.com</a></div></div></Section></>}

diff --git a/app/legal/impressum/page.tsx b/app/legal/impressum/page.tsx
@@ -1,1 +1,3 @@
-export default function Page(){return <div className="legal-page"><h1>Impressum</h1><p><strong>Berlin Gate International Film Festival</strong><br/>Berlin, Germany</p><p>Operator, legal address and authorised representative must be completed before public launch.</p><p>Email: hello@bgiff.com</p></div>}
+import { imprint } from "@/lib/data";
+
+export default function Page(){return <div className="legal-page"><h1>Impressum</h1><h2>Information according to § 5 DDG</h2><p>{imprint.name}{imprint.address.map(l=><span key={l}><br/>{l}</span>)}</p><h2>Contact</h2><p>Email: <a href={`mailto:${imprint.email}`}>{imprint.email}</a><br/>Phone: {imprint.phone}</p><h2>VAT ID</h2><p>VAT identification number according to § 27a UStG: {imprint.vatId}</p><h2>Responsible for content according to § 18 (2) MStV</h2><p>{imprint.name}, address as above</p><h2>Consumer dispute resolution</h2><p>We are neither obliged nor willing to take part in dispute resolution proceedings before a consumer arbitration board.</p><p>Berlin Gate International Film Festival is organised by {imprint.name}.</p></div>}
